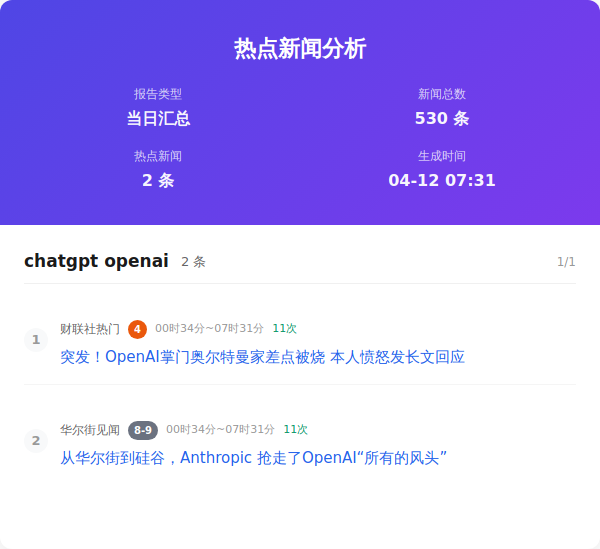
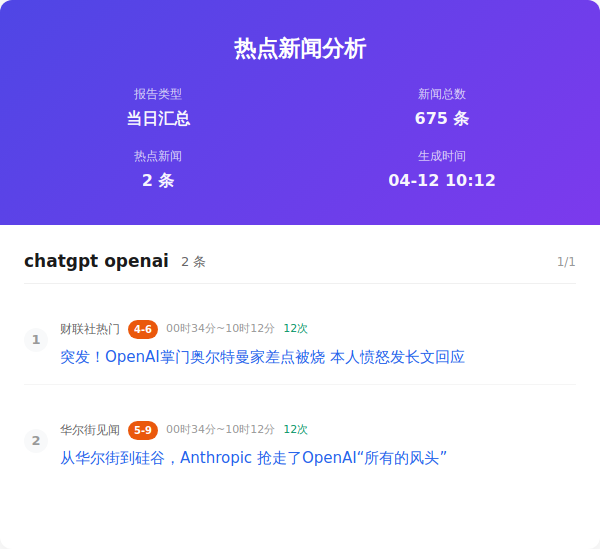
Auto update by GitHub Actions at Sun Apr 12 10:12:37 CST 2026

diff --git a/output/2026年04月12日/html/当日汇总.html b/output/2026年04月12日/html/当日汇总.html
@@ -357,7 +357,7 @@
                     </div>
                     <div class="info-item">
                         <span class="info-label">新闻总数</span>
-                        <span class="info-value">530 条</span>
+                        <span class="info-value">675 条</span>
                     </div>
                     <div class="info-item">
                         <span class="info-label">热点新闻</span>
@@ -365,7 +365,7 @@
                     </div>
                     <div class="info-item">
                         <span class="info-label">生成时间</span>
-                        <span class="info-value">04-12 07:31</span>
+                        <span class="info-value">04-12 10:12</span>
                     </div>
                 </div>
             </div>
@@ -383,7 +383,7 @@
                         <div class="news-number">1</div>
                         <div class="news-content">
                             <div class="news-header">
-                                <span class="source-name">财联社热门</span><span class="rank-num high">4</span><span class="time-info">00时34分~07时31分</span><span class="count-info">11次</span>
+                                <span class="source-name">财联社热门</span><span class="rank-num high">4-6</span><span class="time-info">00时34分~10时12分</span><span class="count-info">12次</span>
                             </div>
                             <div class="news-title"><a href="https://www.cls.cn/detail/2341199" target="_blank" class="news-link">突发！OpenAI掌门奥尔特曼家差点被烧 本人愤怒发长文回应</a>
                             </div>
@@ -393,7 +393,7 @@
                         <div class="news-number">2</div>
                         <div class="news-content">
                             <div class="news-header">
-                                <span class="source-name">华尔街见闻</span><span class="rank-num ">8-9</span><span class="time-info">00时34分~07时31分</span><span class="count-info">11次</span>
+                                <span class="source-name">华尔街见闻</span><span class="rank-num high">5-9</span><span class="time-info">00时34分~10时12分</span><span class="count-info">12次</span>
                             </div>
                             <div class="news-title"><a href="https://wallstreetcn.com/articles/3769740" target="_blank" class="news-link">从华尔街到硅谷，Anthropic 抢走了OpenAI“所有的风头”</a>
                             </div>